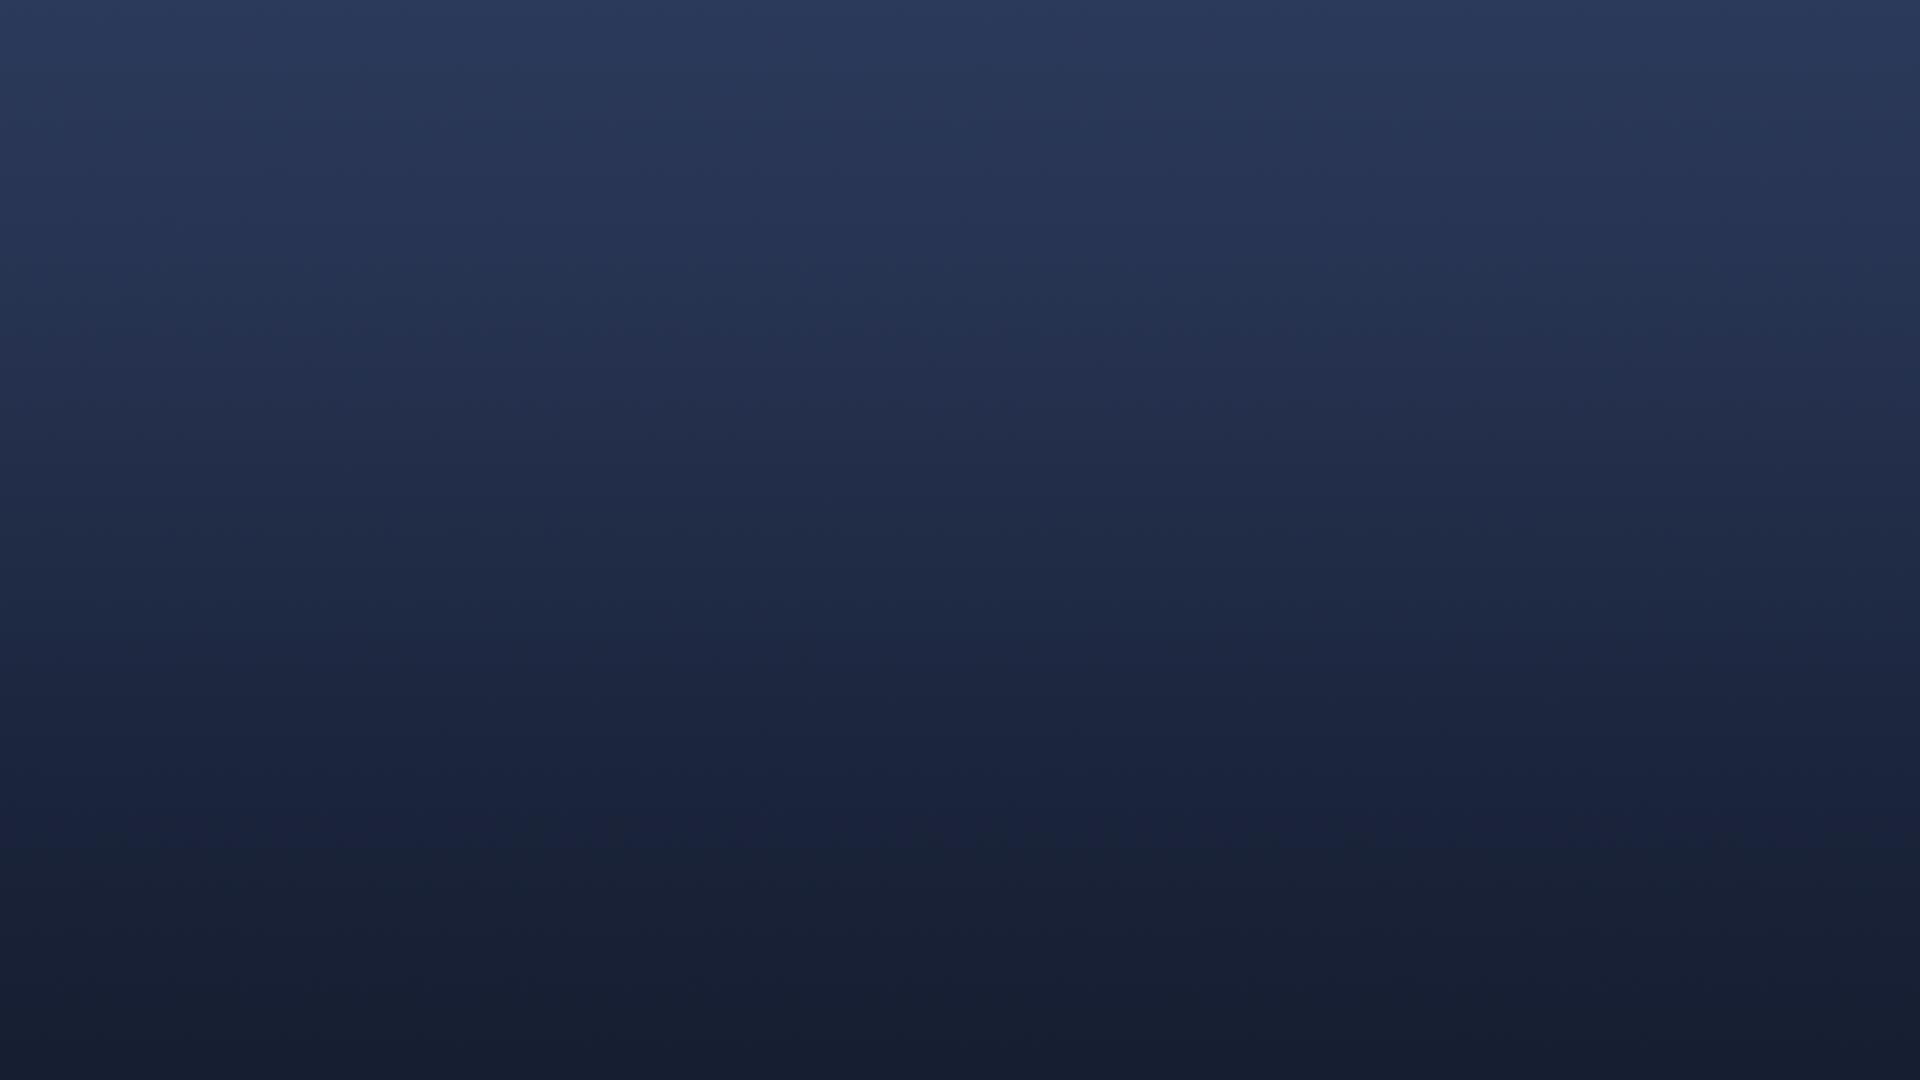
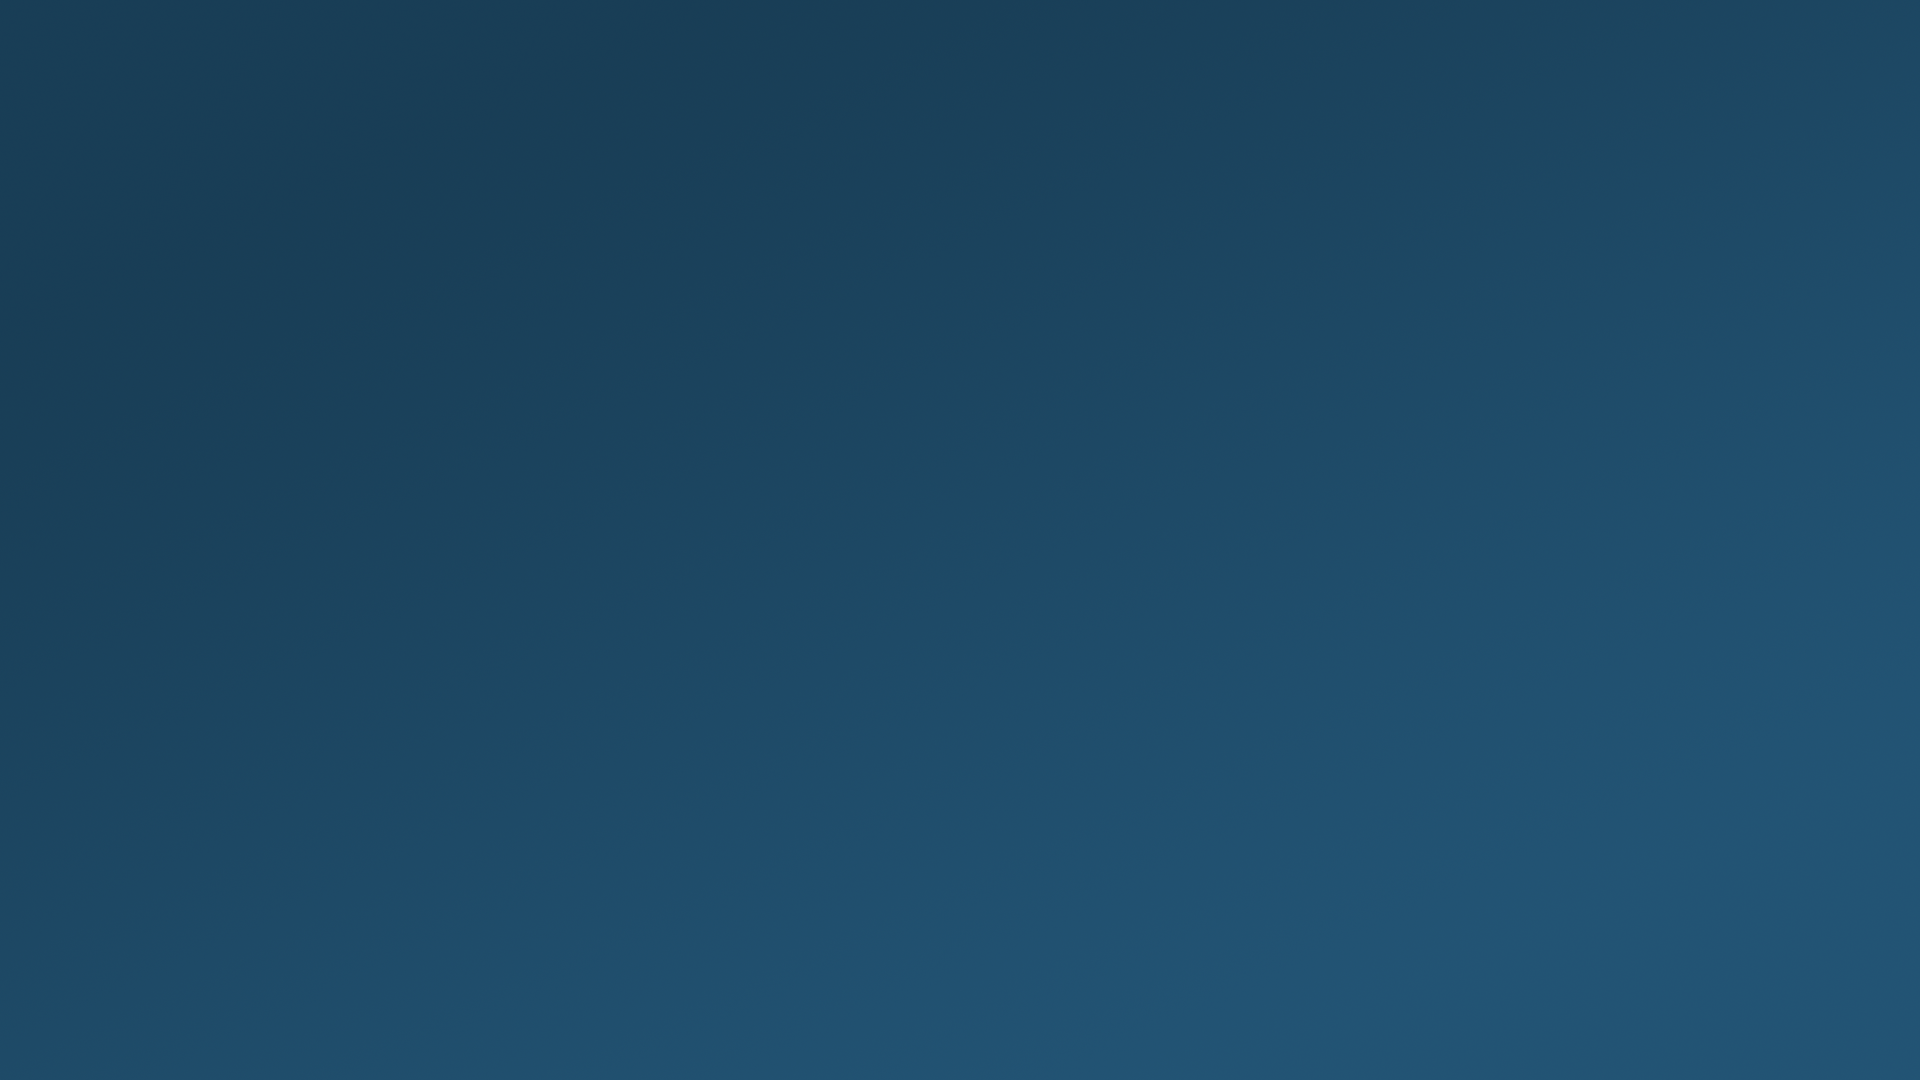
Changing some colours/images

diff --git a/graphics/css/common.css b/graphics/css/common.css
@@ -21,19 +21,19 @@ body {
 }
 
 /* Diagonal lines on the background. */
-.bgLines {
+/*.bgLines {
 	position: fixed;
 	background-image: url('../img/bg-lines.png');
 	background-repeat: no-repeat;
 	background-size: cover;
-	opacity: 0.5;
+	opacity: 0.5;*/
 
 	/* This is the position of these on most of the layouts. */
-	left: 26px;
+	/*left: 26px;
 	top: 706px;
 	width: 297px;
 	height: 265px;
-}
+}*/
 
 #esaLogo {
 	position: fixed;
@@ -46,7 +46,7 @@ body {
 /* A transparent box with 3px yellow outline. */
 .storageBox {
 	position: fixed;
-	outline: 3px solid #ffbd16;
+	outline: 3px solid #68b4ea;
 	overflow: hidden;
 	box-sizing: border-box;
 }
@@ -66,7 +66,7 @@ body {
 	box-sizing: border-box;
 	padding: 3px;
 	height: 50px;
-	background-color: #ffbd16;
+	background-color: #68b4ea;
 	opacity: 0; /* These elements need to be 0 opacity on load so they fade in correctly. */
 }
 .playerName {

diff --git a/graphics/js/omnibar/esa-logo.js b/graphics/js/omnibar/esa-logo.js
@@ -11,15 +11,15 @@ function changeESALogo() {
 	
 	esaBarLogoTicks++;
 	
-	// Change to hashtag text after 50s.
-	if (esaBarLogoCurrentRotation === 0 && esaBarLogoTicks >= 11) {
+	// Change to hashtag text after 30s.
+	if (esaBarLogoCurrentRotation === 0 && esaBarLogoTicks >= 7) {
 		animationFadeOutInElements(smallLogo, hashtag);
 		esaBarLogoTicks = 1;
 		esaBarLogoCurrentRotation ^= 1; // Toggle between 0 and 1.
 	}
 	
-	// Change to normal logo after 10s.
-	else if (esaBarLogoCurrentRotation === 1 && esaBarLogoTicks >= 3) {
+	// Change to normal logo after 30s.
+	else if (esaBarLogoCurrentRotation === 1 && esaBarLogoTicks >= 7) {
 		animationFadeOutInElements(hashtag, smallLogo);
 		esaBarLogoTicks = 1;
 		esaBarLogoCurrentRotation ^= 1; // Toggle between 0 and 1.

diff --git a/graphics/css/intermission.css b/graphics/css/intermission.css
@@ -40,7 +40,7 @@
 }
 
 .comingUpHeader {
-	background-color: #ffbd16;
+	background-color: #68b4ea;
 	width: 100%;
 	height: 60px;
 	text-align: center;
@@ -153,7 +153,7 @@
 
 #bidsWrapper > .bidsHeader, #prizeWrapper > .prizeHeader {
 	width: 100%;
-	background-color: #ffbd16;
+	background-color: #68b4ea;
 	color: black;
 	height: 60px;
 	font-size: 41px;
@@ -215,7 +215,7 @@
 	right: 0;
 	padding: 8px;
 	font-size: 20px;
-	border: 3px solid #ffbd16;
+	border: 3px solid #68b4ea;
 	border-width: 3px 0 0 3px;
 	background-color: rgba(0,0,0,0.3);
 	width: 200px;

diff --git a/graphics/css/omnibar.css b/graphics/css/omnibar.css
@@ -49,7 +49,7 @@ img.emoji {
 .divider {
 	height: inherit;
 	width: 3px;
-	background-color: #ffbd16;
+	background-color: #68b4ea;
 }
 
 /* ESA Logo */
